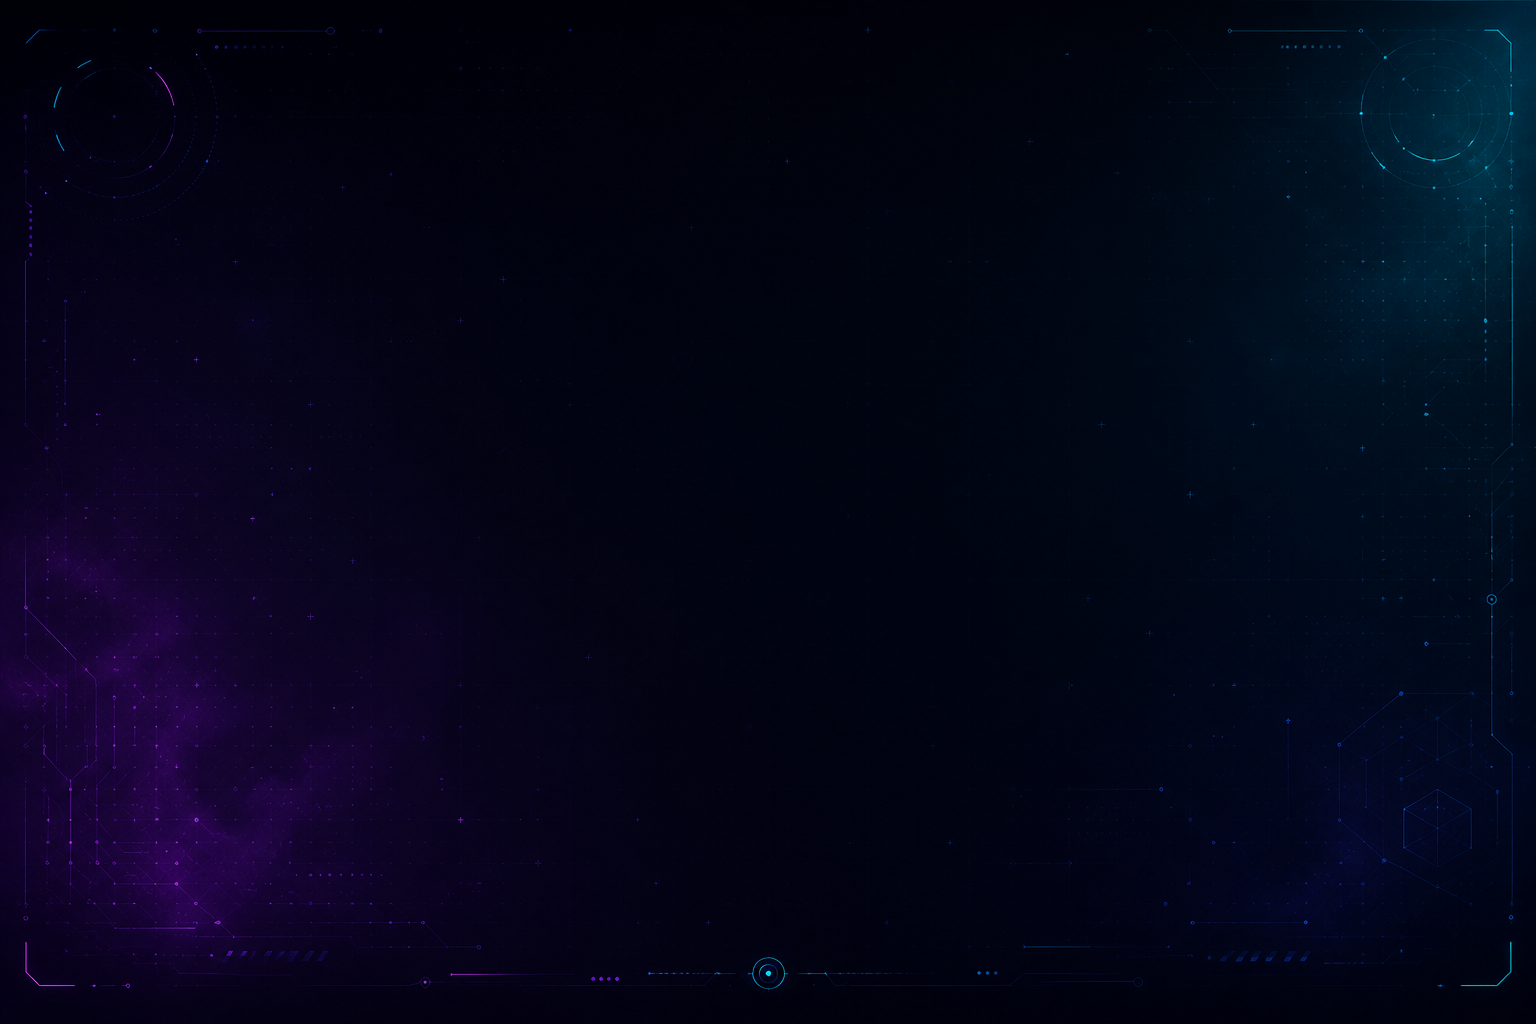
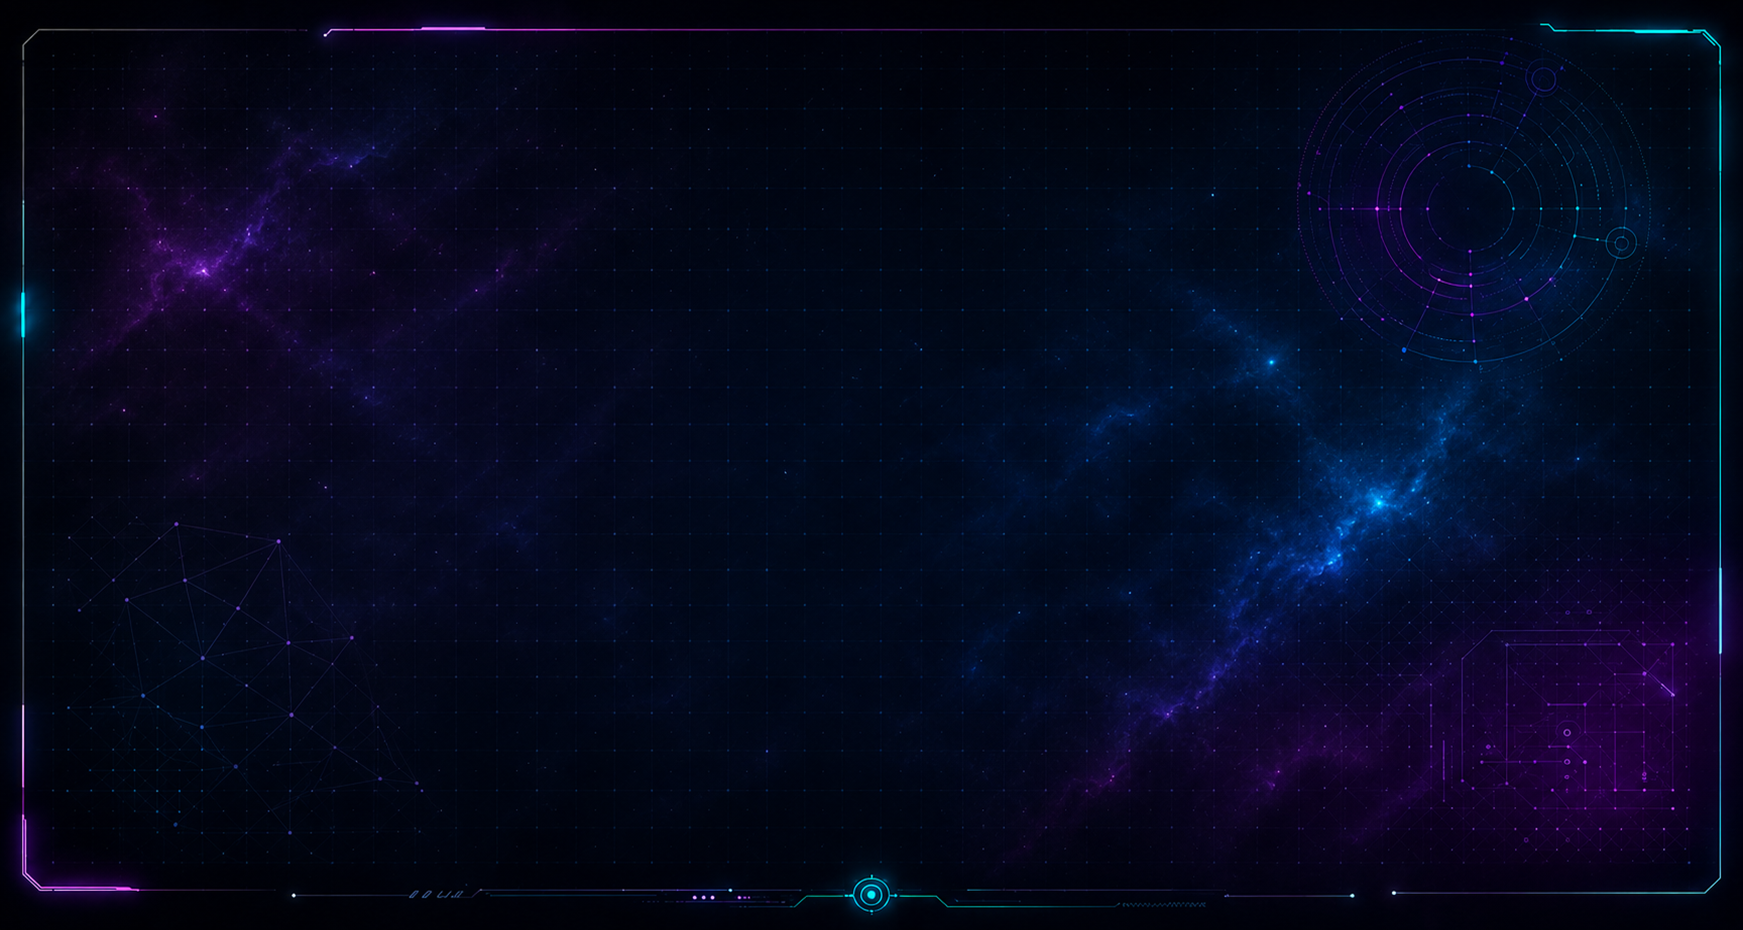
Animated site background: drifting backdrop + foreground overlay with subtle mouse parallax + page-wide sparkles; darken light-mode header nav

diff --git a/components/SiteBackdrop.tsx b/components/SiteBackdrop.tsx
@@ -1,0 +1,64 @@
+"use client"
+
+import { useEffect, useRef } from "react"
+import { useAnimationFrame, useReducedMotion } from "motion/react"
+import { SparkleCanvas } from "./SparkleCanvas"
+
+// Mouse parallax is deliberately gentle here — well under the hero's 26px — so the whole
+// page doesn't feel busy. The overlay (nearer) moves a little more than the backdrop.
+const BG_MOUSE_MAX = 8
+const OVERLAY_MOUSE_MAX = 15
+const EASE = 0.05
+
+/**
+ * The animated ambient background for every page: a fixed backdrop image and a foreground
+ * overlay image that each drift on their own and shift slightly with the pointer (opposite
+ * directions for depth), plus a page-wide twinkling starfield. Theme images/sparkle colors
+ * come from CSS variables (swapped pre-paint). Under `prefers-reduced-motion` everything is
+ * static and the sparkles don't render.
+ */
+export function SiteBackdrop() {
+  const reduced = useReducedMotion()
+  const bgRef = useRef<HTMLDivElement>(null)
+  const overlayRef = useRef<HTMLDivElement>(null)
+  const target = useRef({ x: 0, y: 0 })
+  const current = useRef({ x: 0, y: 0 })
+
+  useEffect(() => {
+    if (reduced) return
+    const onMove = (e: PointerEvent) => {
+      if (e.pointerType !== "mouse") return
+      target.current.x = (e.clientX / window.innerWidth) * 2 - 1
+      target.current.y = (e.clientY / window.innerHeight) * 2 - 1
+    }
+    window.addEventListener("pointermove", onMove)
+    return () => window.removeEventListener("pointermove", onMove)
+  }, [reduced])
+
+  useAnimationFrame((t) => {
+    if (reduced) return
+    current.current.x += (target.current.x - current.current.x) * EASE
+    current.current.y += (target.current.y - current.current.y) * EASE
+    const time = t / 1000
+
+    if (bgRef.current) {
+      const dx = Math.sin(time * 0.12) * 6 + current.current.x * BG_MOUSE_MAX
+      const dy = Math.cos(time * 0.1) * 5 + current.current.y * BG_MOUSE_MAX
+      bgRef.current.style.transform = `translate3d(${dx.toFixed(2)}px, ${dy.toFixed(2)}px, 0) scale(1.06)`
+    }
+    if (overlayRef.current) {
+      // Opposite pointer direction + a touch more travel → parallax depth vs. the backdrop.
+      const dx = Math.sin(time * 0.16 + 1.5) * 9 - current.current.x * OVERLAY_MOUSE_MAX
+      const dy = Math.cos(time * 0.13 + 1.5) * 7 - current.current.y * OVERLAY_MOUSE_MAX
+      overlayRef.current.style.transform = `translate3d(${dx.toFixed(2)}px, ${dy.toFixed(2)}px, 0) scale(1.08)`
+    }
+  })
+
+  return (
+    <>
+      <div ref={bgRef} className="site-backdrop" aria-hidden="true" />
+      <SparkleCanvas count={64} color={["#e0b45f", "#d3a24a"]} speed={0.35} className="site-sparkles" />
+      <div ref={overlayRef} className="site-overlay" aria-hidden="true" />
+    </>
+  )
+}

diff --git a/app/globals.css b/app/globals.css
@@ -45,19 +45,19 @@
 @layer components {
   /* Full-page fixed backdrop behind the grid (DESIGN.md §3/§9), theme-swapped, with a
      scrim that keeps AA contrast over the art. */
+  /* Ambient background stack (behind content): backdrop → sparkles → overlay. Each fixed to
+     the viewport so it re-covers responsively; SiteBackdrop drives their gentle drift +
+     subtle mouse parallax via transforms. NOTE: do NOT use `background-attachment: fixed`
+     on these position:fixed layers — it double-fixes and crops inconsistently. */
   .site-backdrop {
     position: fixed;
     inset: 0;
-    z-index: -2;
-    /* Fixed to the viewport (not the document) so it always maps to the current browser
-       size and re-covers responsively on resize. `cover` + center scales the image to fill
-       whatever aspect ratio the window is, with no letterboxing. NOTE: do NOT re-add
-       `background-attachment: fixed` — on a position:fixed element it double-fixes and makes
-       several browsers zoom/crop the image inconsistently. */
+    z-index: -3;
     background-image: var(--backdrop-image);
     background-size: cover;
     background-position: center center;
     background-repeat: no-repeat;
+    will-change: transform;
   }
 
   .site-backdrop::after {
@@ -65,6 +65,27 @@
     position: absolute;
     inset: 0;
     background: var(--bg-scrim);
+  }
+
+  .site-overlay {
+    position: fixed;
+    inset: 0;
+    z-index: -2;
+    background-image: var(--overlay-image);
+    background-size: cover;
+    background-position: center center;
+    background-repeat: no-repeat;
+    pointer-events: none;
+    will-change: transform;
+  }
+
+  .site-sparkles {
+    position: fixed;
+    inset: 0;
+    z-index: -1;
+    width: 100%;
+    height: 100%;
+    pointer-events: none;
   }
 
   /* Theme-aware contrast scrim over the hero art (CSS-driven, so it swaps pre-paint). */

diff --git a/styles/tokens.css b/styles/tokens.css
@@ -37,8 +37,9 @@
   --track: rgba(111, 134, 214, 0.18);
   --track-fill: linear-gradient(90deg, #6f86d6, #d3a24a);
 
-  /* Full-page backdrop image (swapped by theme; keeps the fixed div responsive). */
+  /* Full-page backdrop + foreground overlay images (swapped by theme). */
   --backdrop-image: url("/img/background_light.png");
+  --overlay-image: url("/img/foreground_overlay_light.png");
 
   /* Hero Main Card art — CSS-driven so it swaps pre-paint with no flash (light set). */
   --hero-layer-0: url("/hero/light/layer_0.png");
@@ -84,8 +85,9 @@
   --track: rgba(124, 138, 168, 0.22);
   --track-fill: linear-gradient(90deg, #2dd4bf, #b483f0);
 
-  /* Full-page backdrop image (dark). */
+  /* Full-page backdrop + foreground overlay images (dark). */
   --backdrop-image: url("/img/background_dark.png");
+  --overlay-image: url("/img/foreground_overlay_dark.png");
 
   /* Hero Main Card art — dark set (void / orbital rings / wireframe globe). */
   --hero-layer-0: url("/hero/dark/layer_0.png");

diff --git a/components/SiteHeader.tsx b/components/SiteHeader.tsx
@@ -17,9 +17,9 @@ export function SiteHeader() {
     <header className="mx-auto flex max-w-6xl items-center justify-between px-5 py-5">
       <Link href="/" className="group flex items-baseline gap-2">
         <span className="font-display text-2xl font-bold tracking-wide text-heading">JUNO</span>
-        <span className="text-xs uppercase tracking-[0.2em] text-text-muted">Digital Garden</span>
+        <span className="text-xs font-medium uppercase tracking-[0.2em] text-text">Digital Garden</span>
       </Link>
-      <nav className="hidden items-center gap-5 text-sm text-text-muted md:flex">
+      <nav className="hidden items-center gap-5 text-sm font-medium text-text md:flex">
         {NAV.map((item) => (
           <Link key={item.href} href={item.href} className="transition-colors hover:text-accent-2">
             {item.label}

diff --git a/app/layout.tsx b/app/layout.tsx
@@ -1,6 +1,7 @@
 import type { Metadata } from "next"
 import localFont from "next/font/local"
 import "./globals.css"
+import { SiteBackdrop } from "@/components/SiteBackdrop"
 import { ThemeProvider } from "@/components/ThemeProvider"
 
 // Self-hosted display serif + body sans (DESIGN.md §8), exposed as CSS variables.
@@ -40,7 +41,7 @@ export default function RootLayout({ children }: { children: React.ReactNode }) 
         <script dangerouslySetInnerHTML={{ __html: themeScript }} />
       </head>
       <body>
-        <div className="site-backdrop" aria-hidden="true" />
+        <SiteBackdrop />
         <ThemeProvider>{children}</ThemeProvider>
       </body>
     </html>

diff --git a/components/SparkleCanvas.tsx b/components/SparkleCanvas.tsx
@@ -148,12 +148,8 @@ export function SparkleCanvas({ count, color, speed, className = "" }: SparkleCa
   }, [count, color, speed, reduced])
 
   if (reduced) return null
-  return (
-    <canvas
-      ref={canvasRef}
-      className={className}
-      aria-hidden="true"
-      style={{ position: "absolute", inset: 0, width: "100%", height: "100%", pointerEvents: "none" }}
-    />
-  )
+  // Position/size come from className so the same canvas works inside the hero (absolute
+  // fill) and page-wide (fixed fill).
+  return <canvas ref={canvasRef} className={className} aria-hidden="true" style={{ pointerEvents: "none" }} />
+
 }

diff --git a/components/HeroParallax.tsx b/components/HeroParallax.tsx
@@ -151,7 +151,12 @@ export function HeroParallax({
           />
         ))}
       </div>
-      <SparkleCanvas count={sparkle.count} color={sparkle.color} speed={sparkle.speed} />
+      <SparkleCanvas
+        count={sparkle.count}
+        color={sparkle.color}
+        speed={sparkle.speed}
+        className="pointer-events-none absolute inset-0 h-full w-full"
+      />
       <div className={`absolute inset-0 ${scrimClassName}`} aria-hidden="true" />
       <div className="relative">{children}</div>
     </div>
